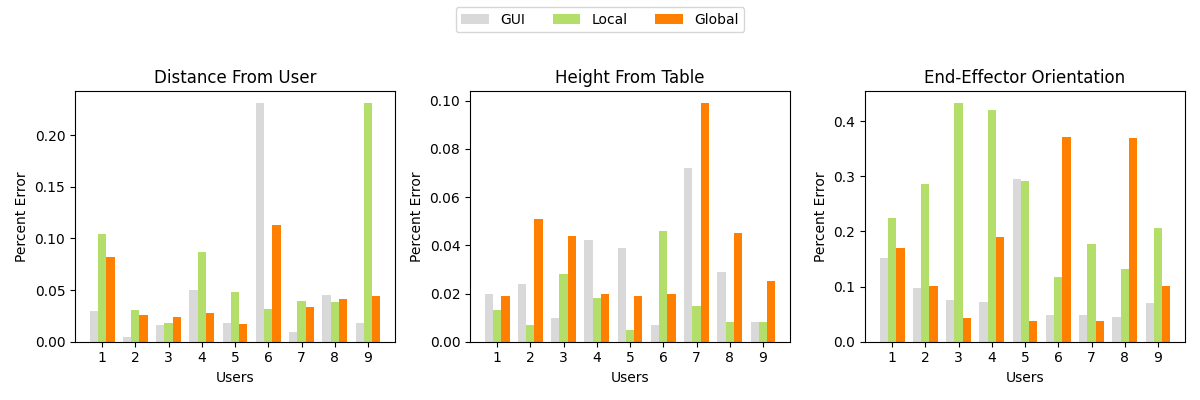
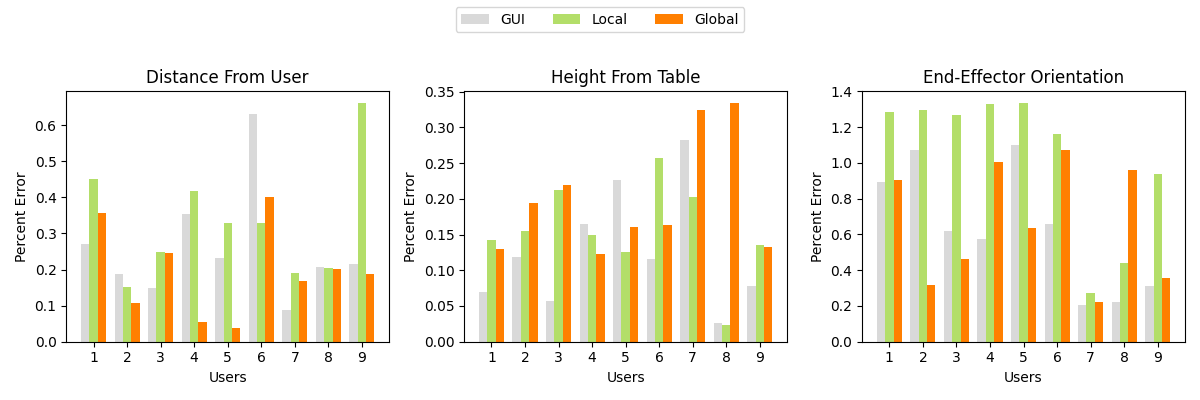
timeplots

diff --git a/plot_time.py b/plot_time.py
@@ -29,91 +29,77 @@ def mean_error(arr, base):
 def quat_error(R):
     diff = []
     for r in R:
-        diff.append(Quaternion.absolute_distance(Panda.rot2quat(R_desire),
-        Panda.rot2quat(r)))
+        diff.append(Quaternion.absolute_distance(Panda.rot2quat(R_desire), Panda.rot2quat(r)))
     return np.array(diff)
+
+def compute_time(var, t, t_total):
+    t_active = 0
+    idcs = np.argwhere(np.abs(np.diff(var)) > 0.0008) + 1
+    idcs_flat = idcs.flatten('F').tolist()
+    for idx in idcs_flat:
+        t_active += (t[idx] - t[idx-1])
+        return 100 * t_active / t_total
 
 X = {}
 Y = {}
 Z = {}
 Quat = {}
-n = 6
-h_base = 0.1
-dist_base = -0.45
-orien_base = 0.0
+n = 9
 
-for method in ["none", "GUI", "local", "global"]:
+for method in ["GUI", "local", "global"]:
     x = {}
-    y = {}
-    z = {}
-    quat = {}
+    t_y = {}
+    t_z = {}
+    t_quat = {}
+
     for user_n in range(1, n+1):
         filename = "data/demos/user_" + str(user_n) + "_" + method +  ".pkl"
         file = open(filename, "rb")
         data = pickle.load(file)
 
         R = data["rotation matrix"]
-        ee = data["ee positions"]
         time = data["time"]
+        ee = data["ee positions"]
 
         points = np.array(ee).T
+        t_total = time[-1] - time[0]
+
         x["user_" + str(user_n)] = points[0,:]
 
         marg_1_idx, marg_2_idx, marg_3_idx = get_idx(points[0, :])
-
-        # time users spend correcting?
-        # instead of mean_error write a function that searches through the data points and
-        # measures how much time passed if there was a significant change in the feature
-
-        def compute_time(var, t, start_marg, end_marg):
-            # print(var.shape)
-            # print(len(time))
-            # print(start_marg)
-            # print(end_marg)
-            arr = np.array([0,2,3,6,7,0])
-            print(arr)
-            print(np.diff(arr))
-            idx = np.argwhere(np.abs(np.diff(arr)) > 2.0) + 1
-            print(idx)
-            exit()
-
         if method == "GUI":
-            # z["user_" + str(user_n)] = compute_time(points[2,:][:marg_1_idx])
-            z["user_" + str(user_n)] = compute_time(points[2,:], time, None, marg_1_idx)
-
-
-
-            quat["user_" + str(user_n)] = mean_error(quat_error(R[marg_1_idx:marg_2_idx]), orien_base)
-            y["user_" + str(user_n)] = mean_error(points[1,:][marg_2_idx:marg_3_idx], dist_base)
+            t_z["user_" + str(user_n)] = compute_time(points[2,:][:marg_1_idx], time[:marg_1_idx], t_total)
+            t_quat["user_" + str(user_n)] = compute_time(quat_error(R[marg_1_idx:marg_2_idx]), time[marg_1_idx:marg_2_idx], t_total)
+            t_y["user_" + str(user_n)] = compute_time(points[1,:][marg_2_idx:marg_3_idx], time[marg_2_idx:marg_3_idx], t_total)
         elif method == "global":
-            z["user_" + str(user_n)] = mean_error(points[2,:][:marg_1_idx], h_base)
-            y["user_" + str(user_n)] = mean_error(points[1,:][marg_1_idx:marg_2_idx], dist_base)
-            quat["user_" + str(user_n)] = mean_error(quat_error(R[marg_2_idx:marg_3_idx]), orien_base)
+            t_z["user_" + str(user_n)] = compute_time(points[2,:][:marg_1_idx], time[:marg_1_idx], t_total)
+            t_y["user_" + str(user_n)] = compute_time(points[1,:][marg_1_idx:marg_2_idx], time[marg_1_idx:marg_2_idx], t_total)
+            t_quat["user_" + str(user_n)] = compute_time(quat_error(R[marg_2_idx:marg_3_idx]), time[marg_2_idx:marg_3_idx], t_total)
         elif method == "local":
-            quat["user_" + str(user_n)] = mean_error(quat_error(R[:marg_1_idx]), orien_base)
-            z["user_" + str(user_n)] = mean_error(points[2,:][marg_1_idx:marg_2_idx], h_base)
-            y["user_" + str(user_n)] = mean_error(points[1,:][marg_2_idx:marg_3_idx], dist_base)
+            t_quat["user_" + str(user_n)] = compute_time(quat_error(R[:marg_1_idx]), time[:marg_1_idx], t_total)
+            t_z["user_" + str(user_n)] = compute_time(points[2,:][marg_1_idx:marg_2_idx], time[marg_1_idx:marg_2_idx], t_total)
+            t_y["user_" + str(user_n)] = compute_time(points[1,:][marg_2_idx:marg_3_idx], time[marg_2_idx:marg_3_idx], t_total)
+
     X[method] = x
-    Y[method] = y
-    Z[method] = z
-    Quat[method] = quat
+    Y[method] = t_y
+    Z[method] = t_z
+    Quat[method] = t_quat
+
+### user feature times ###
+GUI_h_time = Z["GUI"].values()
+GUI_orien_time = Quat["GUI"].values()
+GUI_dist_time = Y["GUI"].values()
+
+global_h_time = Z["global"].values()
+global_dist_time = Y["global"].values()
+global_orien_time = Quat["global"].values()
+
+local_orien_time = Quat["local"].values()
+local_h_time = Z["local"].values()
+local_dist_time = Y["local"].values()
 
 
-### user feature errors ###
-GUI_h_error = Z["GUI"].values()
-GUI_orien_error = Quat["GUI"].values()
-GUI_dist_error = Y["GUI"].values()
-
-global_h_error = Z["global"].values()
-global_dist_error = Y["global"].values()
-global_orien_error = Quat["global"].values()
-
-local_orien_error = Quat["local"].values()
-local_h_error = Z["local"].values()
-local_dist_error = Y["local"].values()
-
-
-### plot error bars ###
+### plot time bars ###
 fig, (ax1, ax2, ax3) = plt.subplots(1, 3, figsize=(12,4))
 fig.suptitle('\n')
 
@@ -127,49 +113,48 @@ br3 = [x + barWidth for x in br2]
 
 plt.setp((ax1, ax2, ax3),
         xticks=br1+barWidth, xticklabels=br1+1,
-        xlabel='Users', ylabel='Percent Error')
+        xlabel='Users', ylabel='Percent Time')
 
-# plot distance error
-ax1.bar(br1, GUI_dist_error, color ='#d9d9d9', width = barWidth, label ='GUI')
-ax1.bar(br2, local_dist_error, color ='#b3de69', width = barWidth, label ='Local')
-ax1.bar(br3, global_dist_error, color ='#ff7f00', width = barWidth, label ='Global')
+# plot distance time
+ax1.bar(br1, GUI_dist_time, color ='#d9d9d9', width = barWidth, label ='GUI')
+ax1.bar(br2, local_dist_time, color ='#b3de69', width = barWidth, label ='Local')
+ax1.bar(br3, global_dist_time, color ='#ff7f00', width = barWidth, label ='Global')
 ax1.title.set_text('Distance From User')
 
-# plot height error
-ax2.bar(br1, GUI_h_error, color ='#d9d9d9', width = barWidth, label ='GUI')
-ax2.bar(br2, local_h_error, color ='#b3de69', width = barWidth, label ='Local')
-ax2.bar(br3, global_h_error, color ='#ff7f00', width = barWidth, label ='Global')
+# plot height time
+ax2.bar(br1, GUI_h_time, color ='#d9d9d9', width = barWidth, label ='GUI')
+ax2.bar(br2, local_h_time, color ='#b3de69', width = barWidth, label ='Local')
+ax2.bar(br3, global_h_time, color ='#ff7f00', width = barWidth, label ='Global')
 ax2.title.set_text('Height From Table')
 
-# plot orientation error
-ax3.bar(br1, GUI_orien_error, color ='#d9d9d9', width = barWidth, label ='GUI')
-ax3.bar(br2, local_orien_error, color ='#b3de69', width = barWidth, label ='Local')
-ax3.bar(br3, global_orien_error, color ='#ff7f00', width = barWidth, label ='Global')
+# plot orientation time
+ax3.bar(br1, GUI_orien_time, color ='#d9d9d9', width = barWidth, label ='GUI')
+ax3.bar(br2, local_orien_time, color ='#b3de69', width = barWidth, label ='Local')
+ax3.bar(br3, global_orien_time, color ='#ff7f00', width = barWidth, label ='Global')
 ax3.title.set_text('End-Effector Orientation')
 
 handles, labels = ax1.get_legend_handles_labels()
 fig.legend(handles, labels, loc='upper center', ncol=3)
 
 plt.tight_layout()
-plt.savefig("results_plot/users_error.png")
+plt.savefig("results_plot/users_time.png")
 
 
-### user mean feature errors ###
-GUI_dist_error_mean = average(list(GUI_dist_error))
-GUI_h_error_mean = average(list(GUI_h_error))
-GUI_orien_error_mean = average(list(GUI_orien_error))
-GUI_mean = [GUI_dist_error_mean, GUI_h_error_mean, GUI_orien_error_mean]
+### user mean feature times ###
+GUI_dist_time_mean = average(list(GUI_dist_time))
+GUI_h_time_mean = average(list(GUI_h_time))
+GUI_orien_time_mean = average(list(GUI_orien_time))
+GUI_mean = [GUI_dist_time_mean, GUI_h_time_mean, GUI_orien_time_mean]
 
-local_dist_error_mean = average(list(local_dist_error))
-local_h_error_mean = average(list(local_h_error))
-local_orien_error_mean = average(list(local_orien_error))
-local_mean = [local_dist_error_mean, local_h_error_mean, local_orien_error_mean]
+local_dist_time_mean = average(list(local_dist_time))
+local_h_time_mean = average(list(local_h_time))
+local_orien_time_mean = average(list(local_orien_time))
+local_mean = [local_dist_time_mean, local_h_time_mean, local_orien_time_mean]
 
-global_dist_error_mean = average(list(global_dist_error))
-global_h_error_mean = average(list(global_h_error))
-global_orien_error_mean = average(list(global_orien_error))
-global_mean = [global_dist_error_mean, global_h_error_mean, global_orien_error_mean]
-
+global_dist_time_mean = average(list(global_dist_time))
+global_h_time_mean = average(list(global_h_time))
+global_orien_time_mean = average(list(global_orien_time))
+global_mean = [global_dist_time_mean, global_h_time_mean, global_orien_time_mean]
 
 
 fig = plt.figure()
@@ -186,6 +171,6 @@ plt.bar(br2, local_mean, width = barWidth, color ='#b3de69', label = 'Local')
 plt.bar(br3, global_mean, width = barWidth, color ='#ff7f00', label = 'Global')
 
 plt.xticks(br2, features)
-
+plt.ylabel('Percent Time')
 plt.legend()
-plt.savefig("results_plot/users_mean_error.png")
+plt.savefig("results_plot/users_mean_time.png")

diff --git a/plot_error.py b/plot_error.py
@@ -23,8 +23,8 @@ def get_idx(X):
     return idx_1, idx_2, idx_3
 
 def mean_error(arr, base):
-    error = np.mean(abs(base - arr) / len(arr))
-    return np.round(100 * error, 3)
+    error = np.mean(abs(base - arr))
+    return np.round(error, 3)
 
 def quat_error(R):
     diff = []
@@ -37,10 +37,10 @@ X = {}
 Y = {}
 Z = {}
 Quat = {}
-n = 9
-h_base = 0.1
+h_base = 0.0
 dist_base = -0.45
 orien_base = 0.0
+n = 9
 
 for method in ["GUI", "local", "global"]:
     x = {}
@@ -56,18 +56,20 @@ for method in ["GUI", "local", "global"]:
         ee = data["ee positions"]
         points = np.array(ee).T
         x["user_" + str(user_n)] = points[0,:]
+        marg_0_start = np.where(x["user_" + str(user_n)] > -0.15)
+        marg_0_idx = marg_0_start[0][0]
 
         marg_1_idx, marg_2_idx, marg_3_idx = get_idx(points[0, :])
         if method == "GUI":
-            z["user_" + str(user_n)] = mean_error(points[2,:][:marg_1_idx], h_base)
+            z["user_" + str(user_n)] = mean_error(points[2,:][marg_0_idx:marg_1_idx], h_base)
             quat["user_" + str(user_n)] = mean_error(quat_error(R[marg_1_idx:marg_2_idx]), orien_base)
             y["user_" + str(user_n)] = mean_error(points[1,:][marg_2_idx:marg_3_idx], dist_base)
         elif method == "global":
-            z["user_" + str(user_n)] = mean_error(points[2,:][:marg_1_idx], h_base)
+            z["user_" + str(user_n)] = mean_error(points[2,:][marg_0_idx:marg_1_idx], h_base)
             y["user_" + str(user_n)] = mean_error(points[1,:][marg_1_idx:marg_2_idx], dist_base)
             quat["user_" + str(user_n)] = mean_error(quat_error(R[marg_2_idx:marg_3_idx]), orien_base)
         elif method == "local":
-            quat["user_" + str(user_n)] = mean_error(quat_error(R[:marg_1_idx]), orien_base)
+            quat["user_" + str(user_n)] = mean_error(quat_error(R[marg_0_idx:marg_1_idx]), orien_base)
             z["user_" + str(user_n)] = mean_error(points[2,:][marg_1_idx:marg_2_idx], h_base)
             y["user_" + str(user_n)] = mean_error(points[1,:][marg_2_idx:marg_3_idx], dist_base)
     X[method] = x
@@ -163,6 +165,6 @@ plt.bar(br2, local_mean, width = barWidth, color ='#b3de69', label = 'Local')
 plt.bar(br3, global_mean, width = barWidth, color ='#ff7f00', label = 'Global')
 
 plt.xticks(br2, features)
-
+plt.ylabel('Mean Percent Error')
 plt.legend()
 plt.savefig("results_plot/users_mean_error.png")

diff --git a/plot_traj.py b/plot_traj.py
@@ -72,8 +72,6 @@ for method in ["GUI", "local", "global"]:
         elif method == "local":
             region(ax1, 0.8, 1.1)
 
-
-
         # height
         ax2.plot(X[method]["user_" + str(user_n)], Z[method]["user_" + str(user_n)],
                             c=str(colors[user_n-1]))

diff --git a/record_demo.py b/record_demo.py
@@ -58,12 +58,6 @@ alpha = 0.4
 beta = 0.8
 max_press = 3.2
 
-# # margins in robot workspace
-# x_margin_1 = 0.15
-# x_margin_2 = 0.45
-# x_margin_3 = 0.75
-# y_margin = 0.15
-
 while not shutdown:
     # read robot states
     state = Panda.readState(conn)
